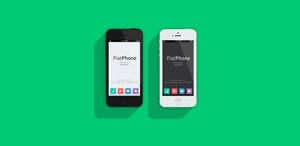
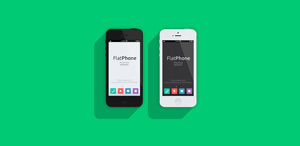
Повышено качество изображений, добавлены лого партнеров, изображения слайдера

diff --git a/index.html b/index.html
@@ -24,11 +24,14 @@
 		<main>
 			<section class="slider">
 				<h2 class="visually-hidden"> Слайдер</h2>
+				<img src="img/slide1.png" width="698" height="413">
+				<img src="img/slide2.png" width="663" height="430">
+				<img src="img/slide3.png" width="759" height="411">
 			</section>
 				<section class="products">
 					<h2 class="visually-hidden"> Услуги</h2>
 						<ul class="products">
-							<li><img src="img/web-sites.jpg" width="300" height="150" alt="web-sites"></li>
+							<li><img src="img/web-sites.jpg" width="300" height="146" alt="web-sites"></li>
 							<li><h3 class="products-web-sites">Веб-сайты</h3></li>
 							<li><p>Мир никогда не будет прежним после того, как увидит ваш сайт!</p></li>
 							<li><button type="button" name="order-web-site">
@@ -36,7 +39,7 @@
 							 	</button></li>			
 						</ul>
 						<ul class="apps">
-							<li><img src="img/apps.jpg" width="300" height="150" alt="apps"></li>
+							<li><img src="img/apps.jpg" width="300" height="146" alt="apps"></li>
 							<li><h3 class="products-apps">Приложения</h3></li>
 							<li><p>Покорите топ-10 приложений в AppStore и Google Play</p></li>
 							<li><button type="button" name="order-app">
@@ -44,7 +47,7 @@
 							 	</button></li>
 						</ul>
 						<ul class="presentations">
-							<li><img src="img/presentations.jpg" width="300" height="150" alt="presentations"></li>
+							<li><img src="img/presentations.img" width="300" height="146" alt="presentations"></li>
 							<li><h3 class="products-presentations">Презентации</h3></li>
 							<li><p>Вы даже не подозреваете, насколько вы изумительны!</p></li>
 							<li><button type="button" name="order-presentation">
@@ -65,7 +68,7 @@
 								</ul>				
 				<section class="logo-table">
 					<h1 class="visually-hidden">Таблица</h1>
-						<img src="img/nerds-illustration.jpg" width="370" height="220" alt="nerds-illustration">
+						<img src="img/nerds-illustration.png" width="360" height="208" alt="nerds-illustration">
 							<table class="percents">
 								<caption class="table-percents">С 2004 года любим точность во всем:</caption> 
 									<tr class="numbers-percents">
@@ -84,10 +87,10 @@
 				<section class="partners">
 					<h2 class="visually-hidden">Партнеры</h2>
 						<ul class="partners">
-							<li><a href="htmlacademy.html"><img src="http://placehold.it/150x100" alt="htmlacademy"></a></li>
-							<li><a href="borodinsky.html"><img src="http://placehold.it/150x100" alt="borodinsky"></a></li>
-							<li><a href="pink.html"><img src="http://placehold.it/150x100" alt="pink"></a></li>
-							<li><a href="mishka.html"><img src="http://placehold.it/150x100" alt="mishka"></a></li>
+							<li><a href="htmlacademy.html"><img src="img/logo-htmlacademy.png" width="199" height="68" alt="htmlacademy"></a></li>
+							<li><a href="borodinsky.html"><img src="img/logo-barbershop.png" width="209" height="90" alt="borodinsky"></a></li>
+							<li><a href="pink.html"><img src="img/logo-pink.png" width="182" height="52" alt="pink"></a></li>
+							<li><a href="mishka.html"><img src="img/logo-mishka.png" width="173" height="84" alt="mishka"></a></li>
 						</ul>	
 				</section>
 				<section class="map">

diff --git a/store.html b/store.html
@@ -43,12 +43,12 @@
 				<section class="samples">
 					<h2 class="visually-hidden">Шаблоны</h2>
 						<ul class="samples">
-							<li><a href="sedona.html"><img src="img/img-sedona.jpg" width="360" height="570" alt="sedona"></a></li>
-							<li><a href="pink.html"><img src="img/img-pink.jpg" width="360" height="570" alt="pink"></a></li>
-							<li><a href="bbarbershop-borodinsky.html"><img src="img/img-barbershop.jpg" width="360" height="570" alt="barbershop"></a></li>
-							<li><a href="mishka.html"><img src="img/img-mishka.jpg" width="360" height="570" alt="mishka"></a></li>
-							<li><a href="aplus.html"><img src="img/img-aplus.jpg" width="360" height="570" alt="aplus"></a></li>
-							<li><a href="kvast.html"><img src="img/img-kvast.jpg" width="360" height="570" alt="kvast"></a></li>
+							<li><a href="sedona.html"><img src="img/img-sedona.png" width="360" height="576" alt="sedona"></a></li>
+							<li><a href="pink.html"><img src="img/img-pink.png" width="360" height="576" alt="pink"></a></li>
+							<li><a href="barbershop-borodinsky.html"><img src="img/img-barbershop.png" width="360" height="576" alt="barbershop"></a></li>
+							<li><a href="mishka.html"><img src="img/img-mishka.png" width="360" height="576" alt="mishka"></a></li>
+							<li><a href="aplus.html"><img src="img/img-aplus.png" width="360" height="576" alt="aplus"></a></li>
+							<li><a href="kvast.html"><img src="img/img-kvast.png" width="360" height="576" alt="kvast"></a></li>
 						</ul>
 						<button class="page-1">1</button>
 						<button class="page-2">2</button>
